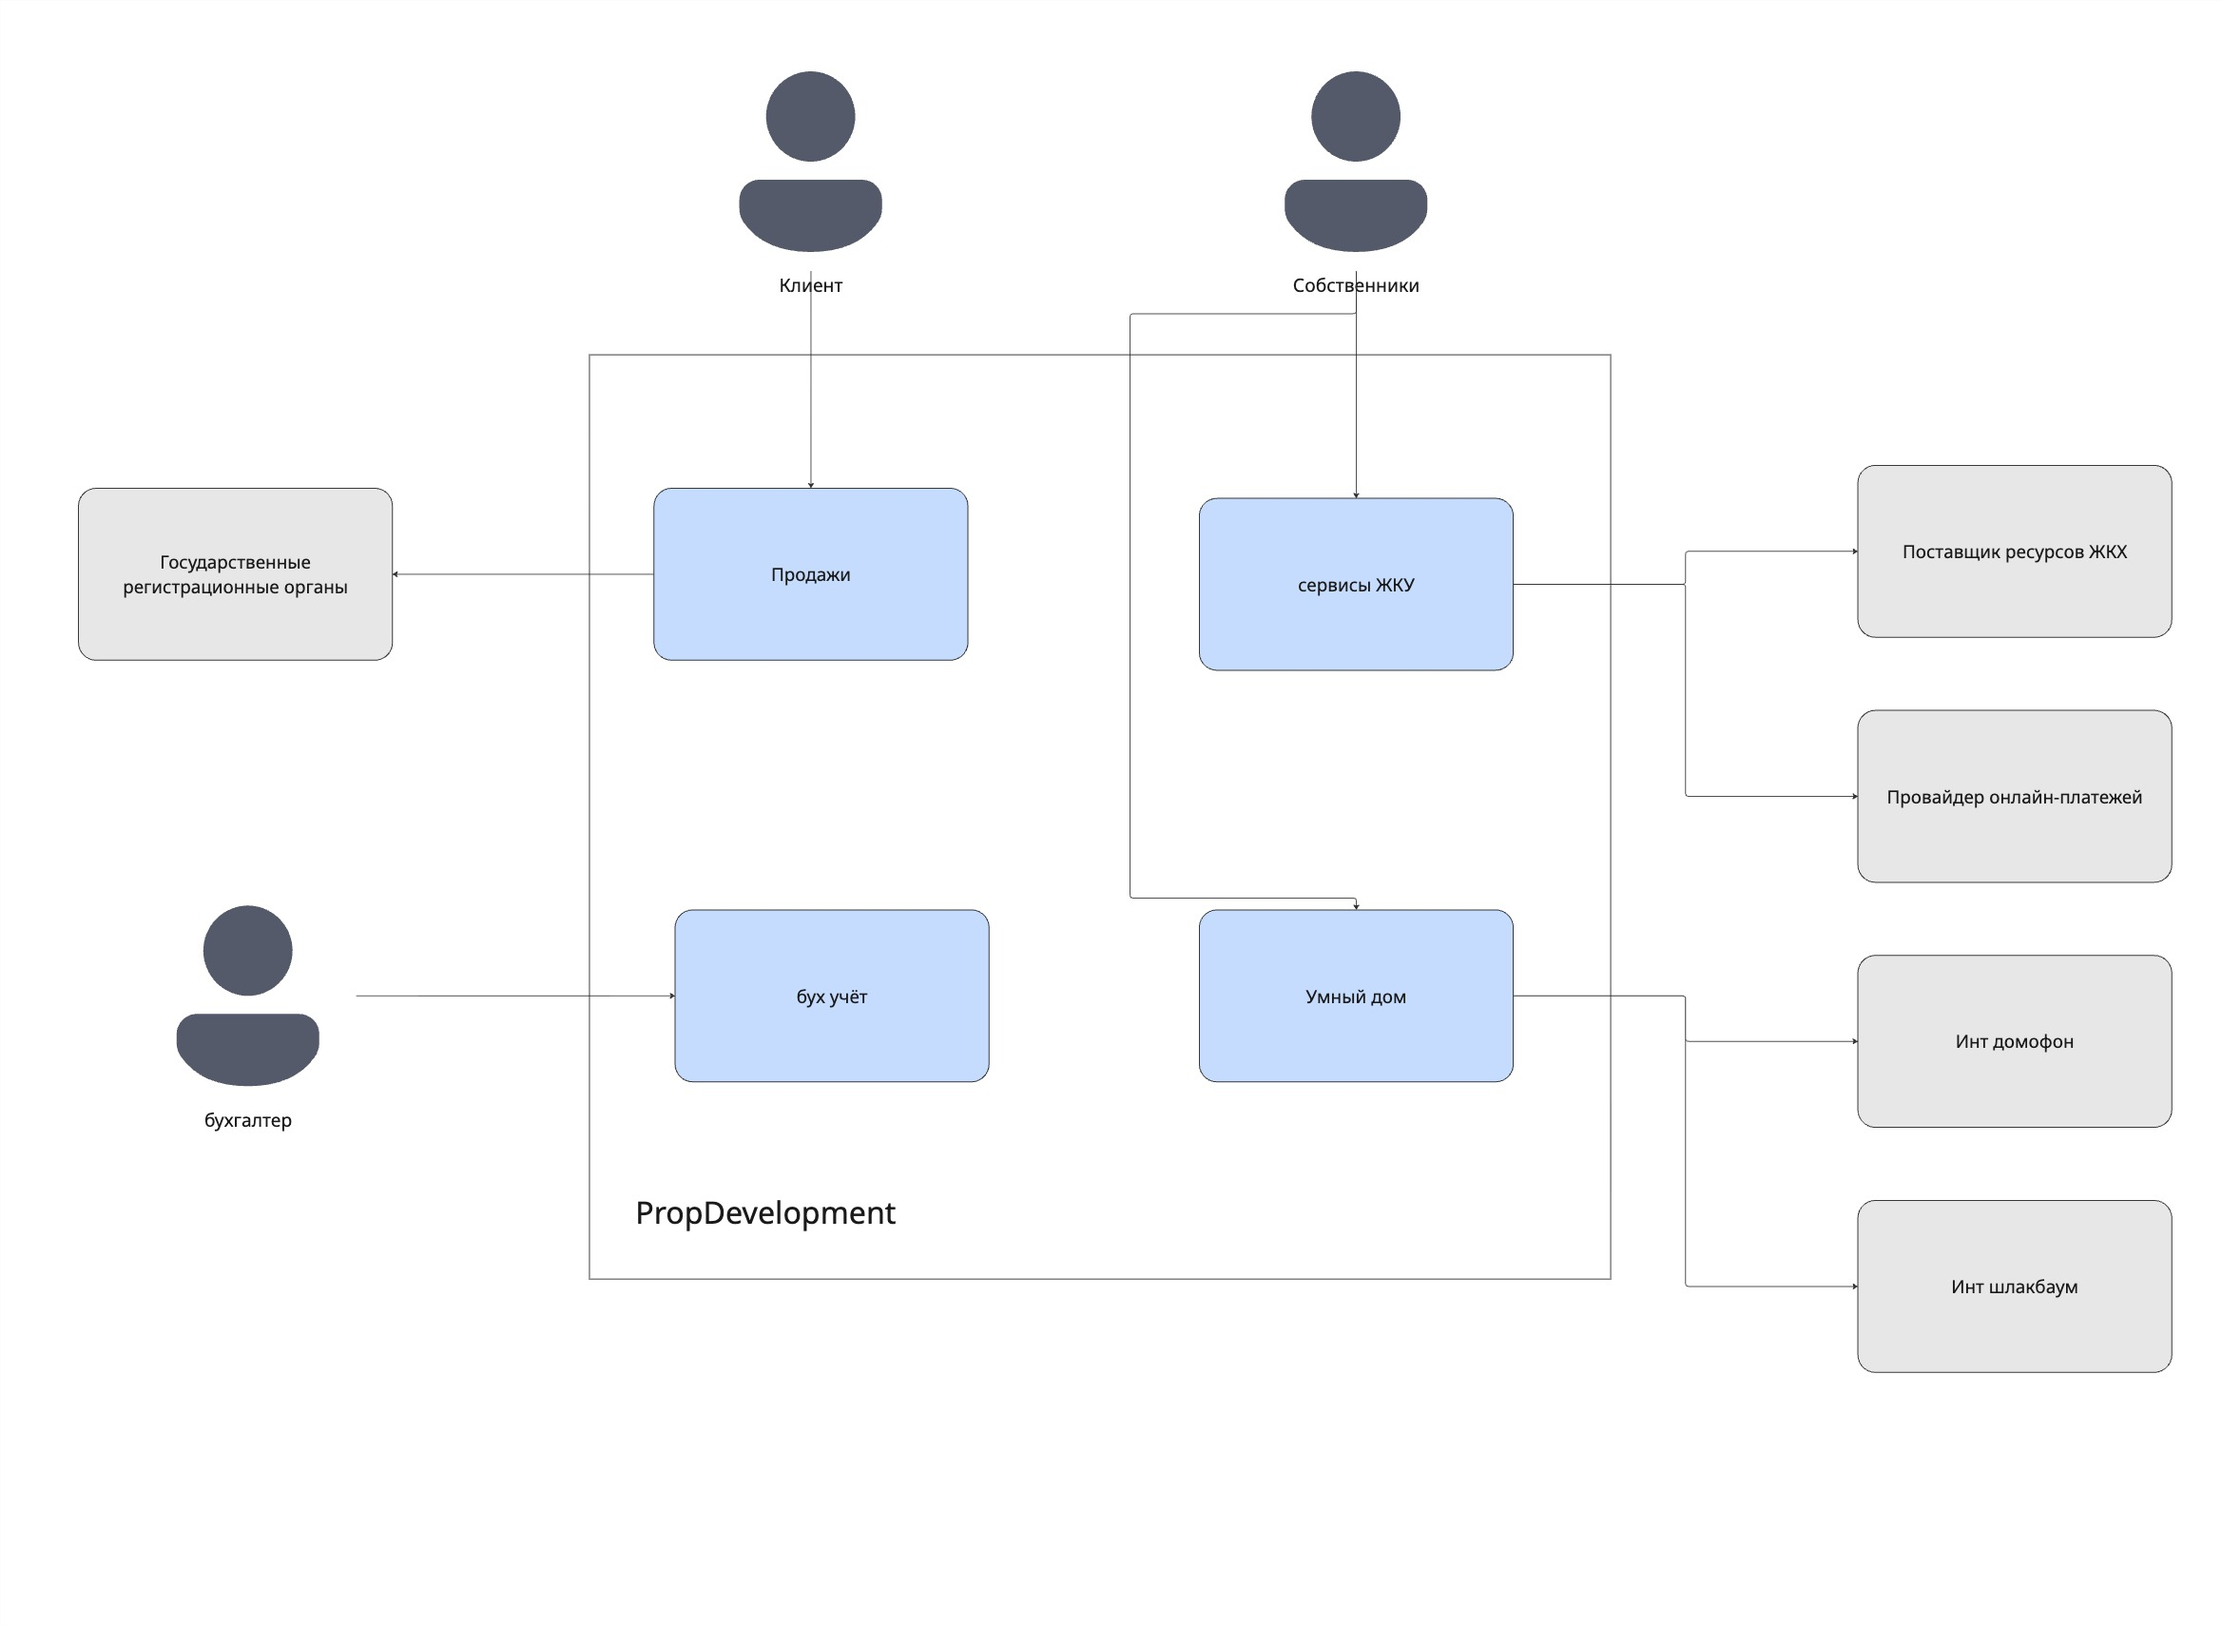
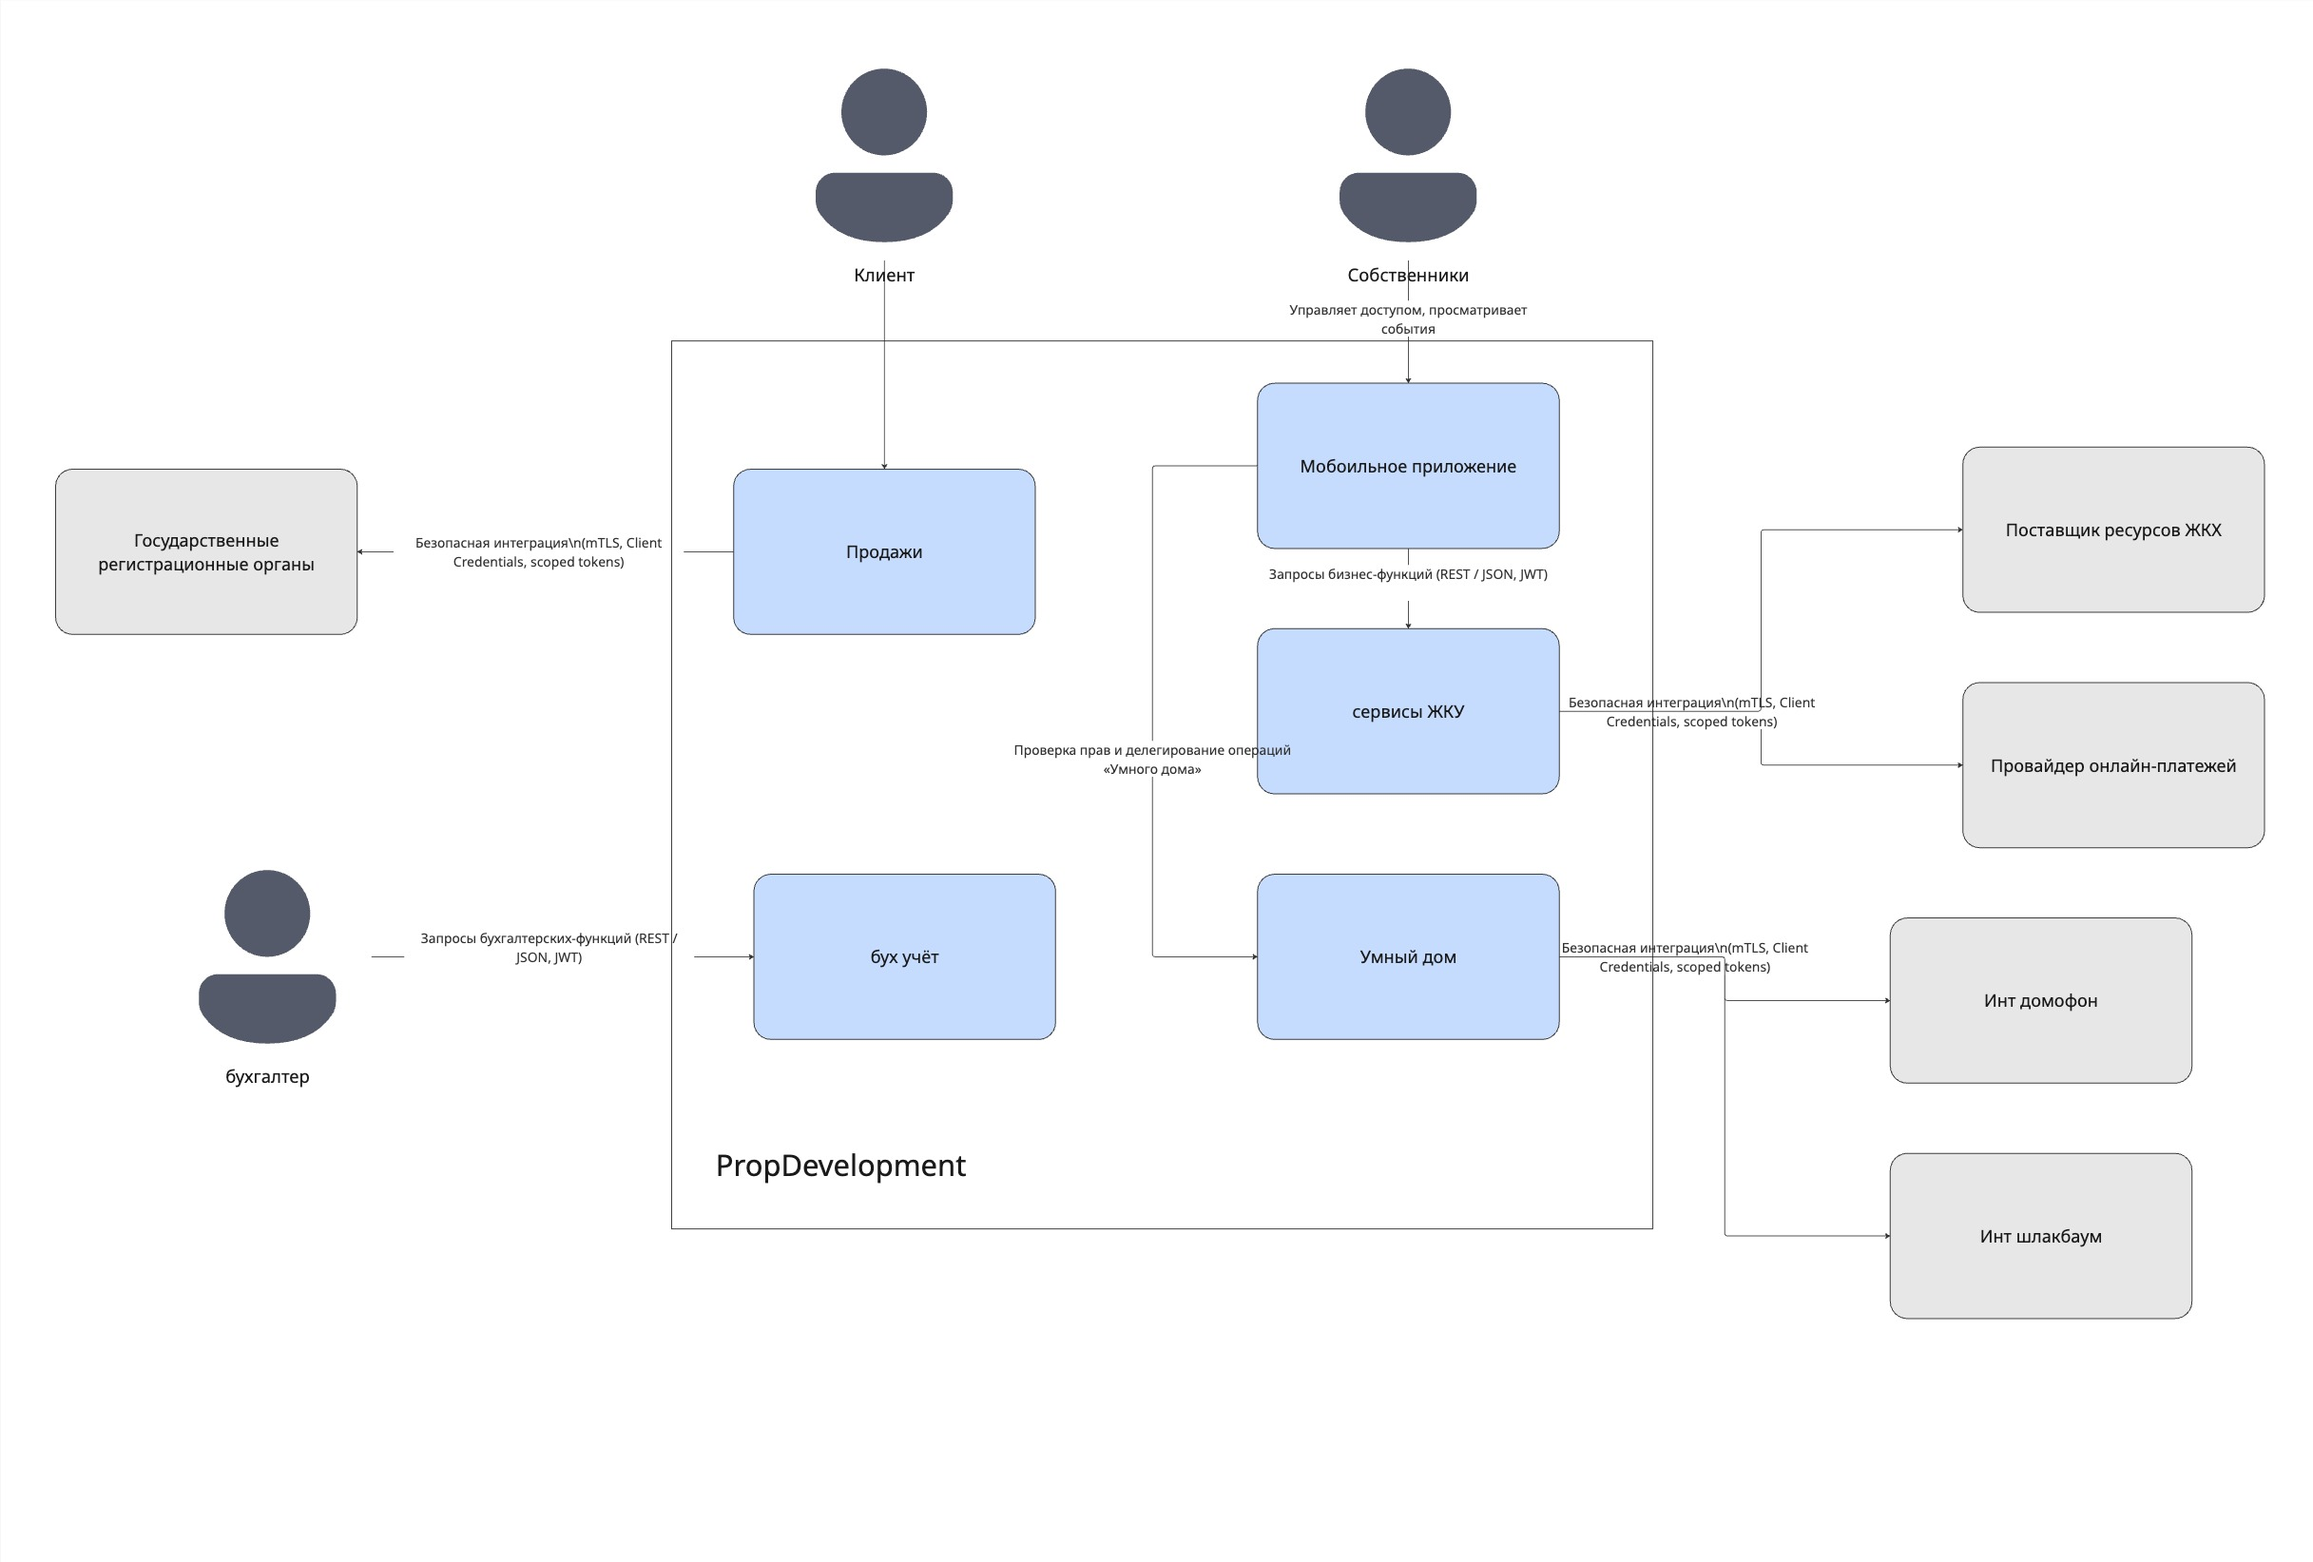
task3 v2

diff --git a/Task3/README.md b/Task3/README.md
@@ -1,3 +1,7 @@
+Задание 3.
+На диаграмму контекста хорошо бы добавить подписи к связям и контекст мобильного приложения.
+В требованиях стоит описать - где планируется аутентификация / авторизации пользователя.
+
 ## требования к безопасности
 - каждая оценка номерв авто/фото пользователя сопровождается контрольной суммой, которая гарантирует, что данные не были изменены с момента их последнего обновления. 
 - каждая оценка номерв авто/фото пользователя сопровождается цифровой подписью.
@@ -9,3 +13,63 @@
 
 ## взаимодействие между системами предприятия и внешней платформой.
 - при передаче между компонентами системы с помощью шифрования SSL (Secure Sockets Layer) и TLS (Transport Layer Security)
+
+
+## Аутентификация пользователя
+
+**Где:**
+- В инфраструктуре PropDevelopment
+- Не у партнёра
+
+**Как:**
+
+* OAuth 2.1 + OpenID Connect
+* Аутентификация выполняется:
+
+  * при входе в мобильное приложение,
+  * при обновлении access token.
+
+* JWT Access Token
+* User ID (UUID)
+* Роли и атрибуты пользователя
+
+---
+
+### Авторизация пользователя
+
+#### Уровень PropDevelopment
+
+**Где:**
+
+* `tenant-core-app`
+
+**Что проверяется:**
+
+* пользователь ↔ квартира,
+* квартира ↔ дом,
+* пользователь ↔ роль (собственник, член семьи, гость),
+* пользователь ↔ разрешённые действия:
+
+  * открыть дверь,
+  * открыть шлагбаум,
+  * просмотреть события.
+
+* Проверка **перед каждым действием**
+
+---
+
+#### Уровень партнёра
+
+**Где:**
+
+* Платформа «Умный дом» партнёра
+
+**Как:**
+
+* Client Credentials Flow
+* Scoped access tokens
+
+**Важно:**
+
+* партнёр **не знает конечного пользователя**,
+* партнёр работает **только с идентификаторами устройств и объектов**.
